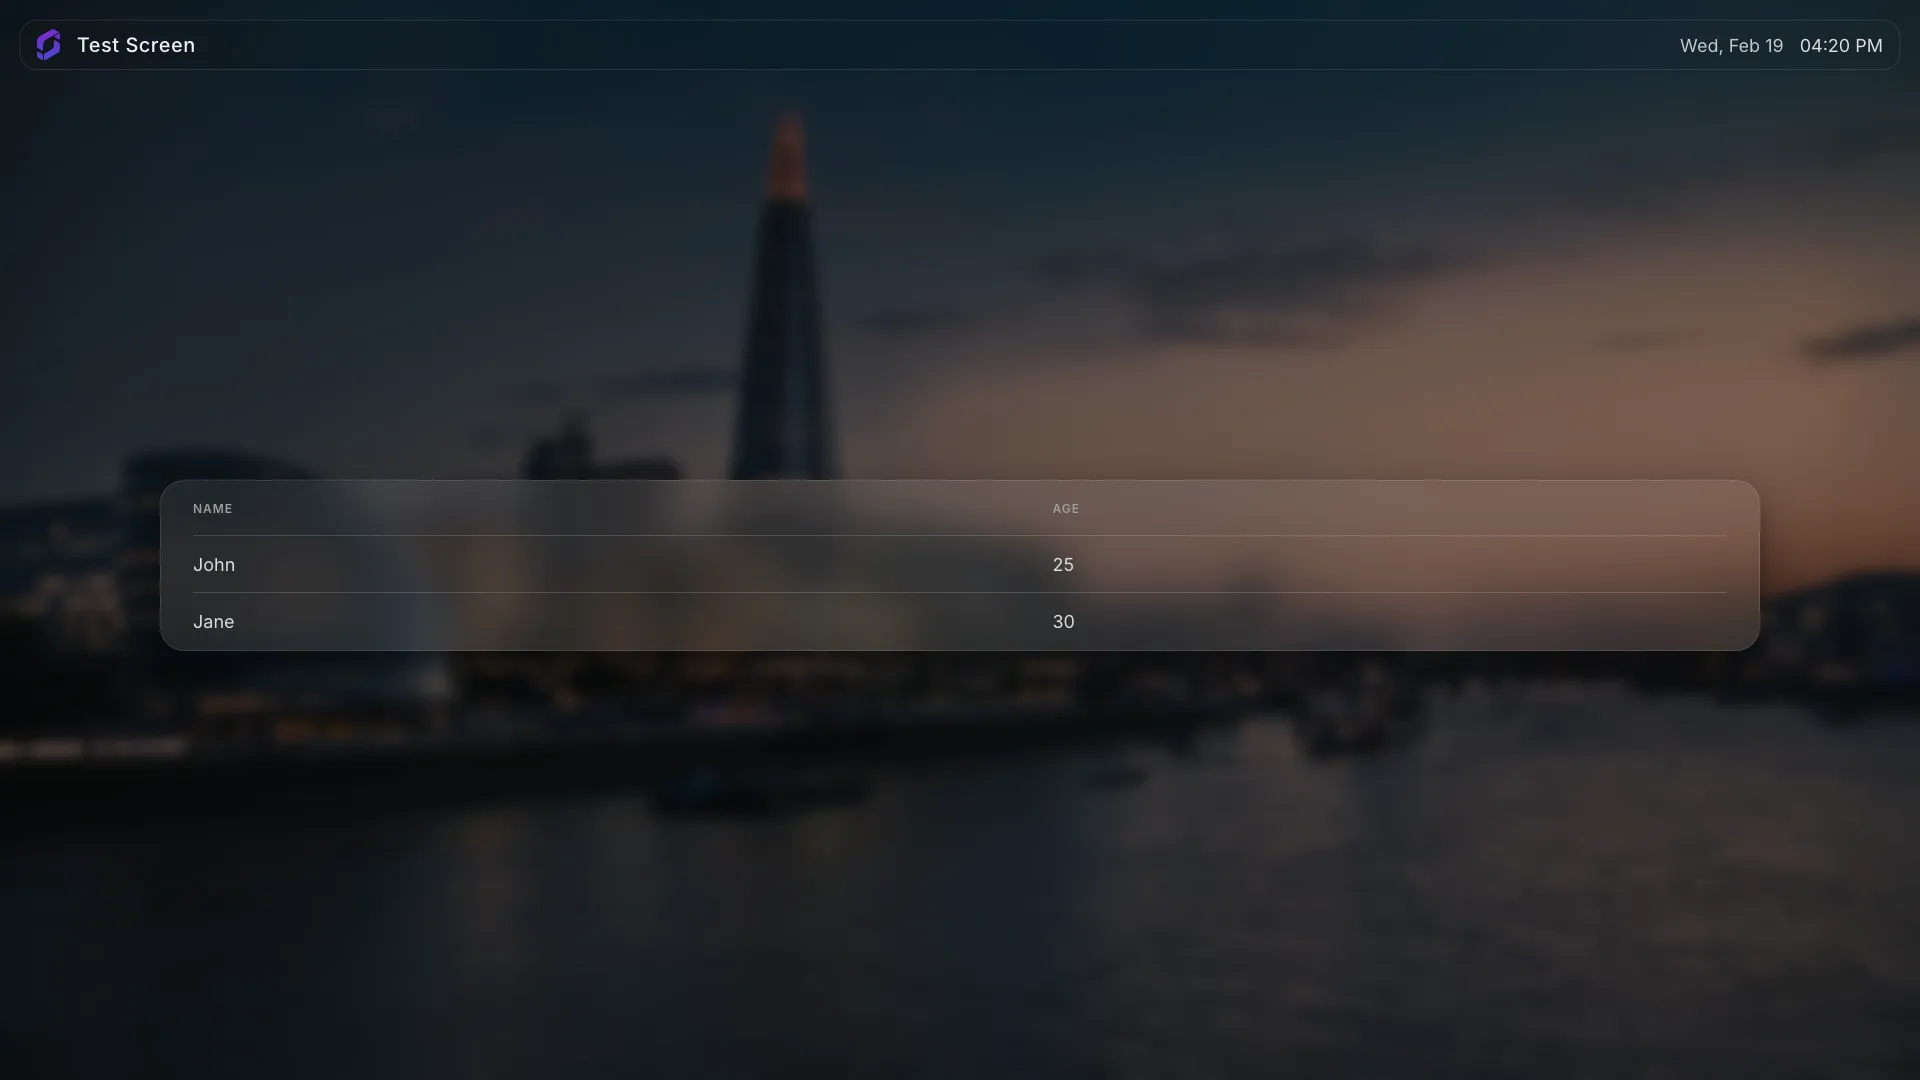
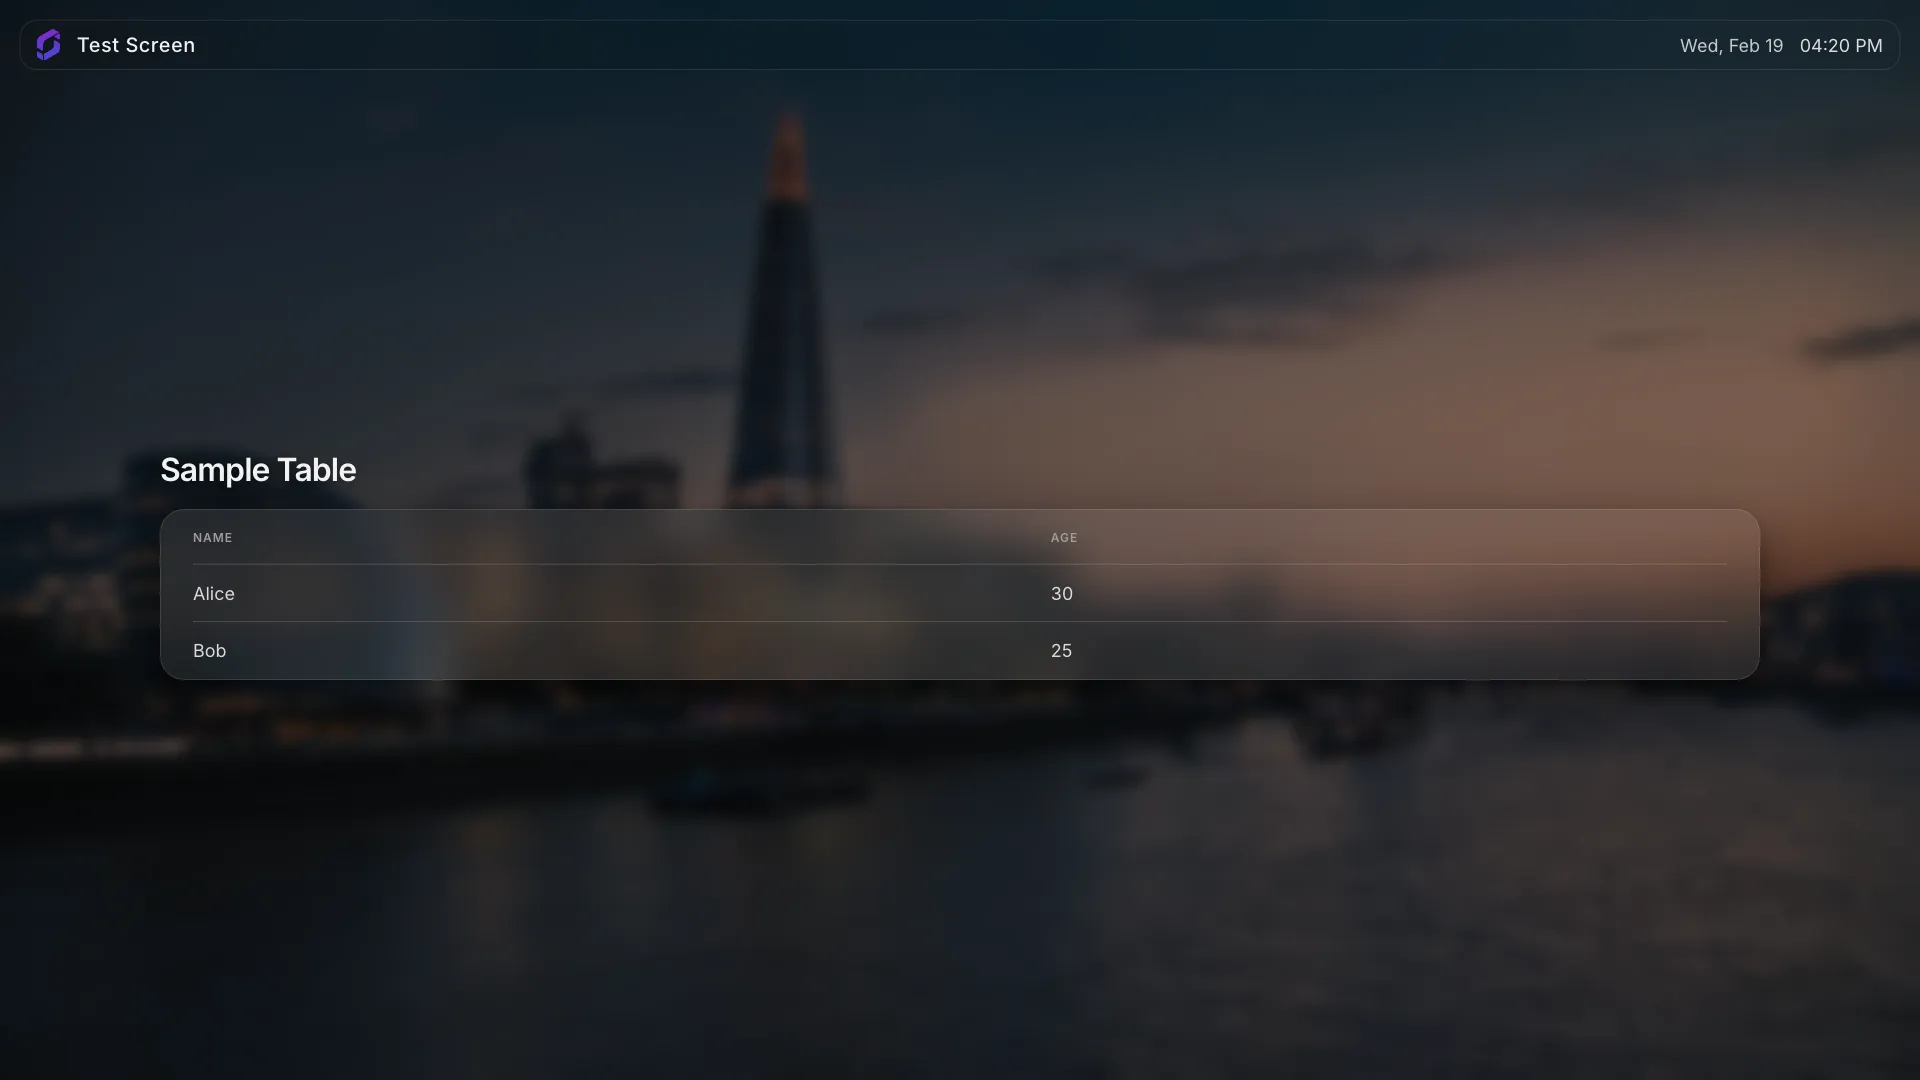
test(simple-table-app): fix screenshot mock settings
- Replace stale settings from another app with correct ones
- Add content and title to exercise CSV rendering in screenshots

Changed region(s): [[0.0625, 0.4278, 0.9375, 0.6417], [0.2812, 0.4278, 0.3438, 0.4889], [0.375, 0.4278, 0.4062, 0.4583]]

diff --git a/edge-apps/simple-table-app/e2e/screenshots.spec.ts b/edge-apps/simple-table-app/e2e/screenshots.spec.ts
@@ -11,10 +11,9 @@ import path from 'path'
 const { screenlyJsContent } = createMockScreenlyForScreenshots(
   { coordinates: [40.7128, -74.006], location: 'New York, NY' },
   {
-    display_errors: 'false',
-    message: 'Hello, World!',
-    override_locale: 'en',
+    content: 'Name,Age\nAlice,30\nBob,25',
     override_timezone: 'America/New_York',
+    title: 'Sample Table',
   },
 )
 
